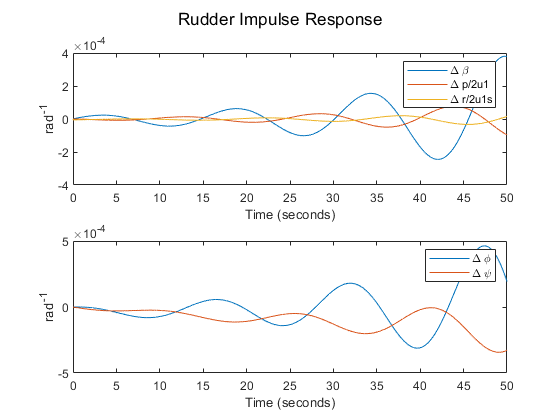
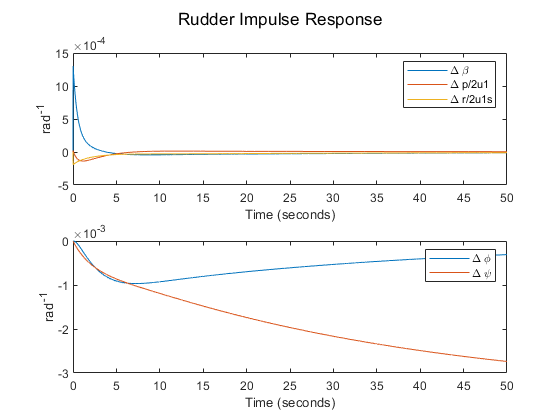
HW 7 2nd draft

diff --git a/ASE 367K/html/hw7.html b/ASE 367K/html/hw7.html
@@ -68,17 +68,18 @@ table td { padding:7px 5px; text-align:left; vertical-align:top; border:1px soli
 
 
   </style></head><body><div class="content"><h2>Contents</h2><div><ul><li><a href="#2">Dimensional stability Derivatives</a></li><li><a href="#3">Set up state space equation</a></li><li><a href="#4">Problem 1 a)</a></li><li><a href="#5">Problem 1 b)</a></li><li><a href="#6">Dutch Roll Approximation</a></li><li><a href="#7">Problem 2a)</a></li><li><a href="#8">Problem 2b)</a></li></ul></div><pre class="codeinput">clear <span class="string">all</span>; close <span class="string">all</span>; clc;
-m= 636636;
-Ixx = 1.82*10^7*32.1740486;
-Izz = 4.97*10^7*32.1740486;
-Ixz = 9.70*10^5*32.1740486;
-S = 5500;
-b = 195.7;
-u1 = 202.537183; <span class="comment">%ft/s</span>
-theta = 2.4/180*pi;
-rho = 1.2673*10^-3*32.1740486;
+
+Ixx = 1.82*10^7*32.1740486; <span class="comment">%lb-ft^2</span>
+Izz = 4.97*10^7*32.1740486; <span class="comment">%lb-ft^2</span>
+Ixz = 9.70*10^5*32.1740486; <span class="comment">%lb-ft^2</span>
+S = 5500; <span class="comment">%ft^2</span>
+b = 195.7; <span class="comment">%ft</span>
+u1 = 202.537183; <span class="comment">%ft/s Mach 0.25 at Sea Level</span>
+theta = 2.4/180*pi; <span class="comment">% rad Arbitrary</span>
+rho = 0.0765; <span class="comment">% lb/ft^3</span>
 q = 1/2*rho*u1^2;
-g = 32.17405;
+g = 32.17405; <span class="comment">% ft/s^2</span>
+m= 636636/g; <span class="comment">% lb</span>
 </pre><h2 id="2">Dimensional stability Derivatives</h2><pre class="codeinput">Cyb=-0.96;
 Clb=-0.221;
 Cnb=0.15;
@@ -184,21 +185,21 @@ fprintf(<span class="string">"Time to damp to half the initial amplitude: %f\n"<
 fprintf(<span class="string">"The number of cycles to damp to half the initial amplitude: %f\n"</span>,NSpiral)
 </pre><pre class="codeoutput">Roll-----------------------------------------------------------
 Damped Frequency: 0.000000
-Natural Frequency: 0.530864
+Natural Frequency: 2.042550
 Damping ratio: 1.000000
-Time to damp to half the initial amplitude: 1.305698
+Time to damp to half the initial amplitude: 0.339354
 The number of cycles to damp to half the initial amplitude: 0.000000
 Dutch Roll-----------------------------------------------------
-Damped Frequency: 0.406406
-Natural Frequency: 0.410465
-Damping ratio: 0.140276
-Time to damp to half the initial amplitude: 12.038320
-The number of cycles to damp to half the initial amplitude: 0.778657
+Damped Frequency: 0.216687
+Natural Frequency: 0.445681
+Damping ratio: 0.873852
+Time to damp to half the initial amplitude: 1.779769
+The number of cycles to damp to half the initial amplitude: 0.061379
 Sprial --------------------------------------------------------
 Damped Frequency: 0.000000
-Natural Frequency: 0.035054
+Natural Frequency: 0.027202
 Damping ratio: 1.000000
-Time to damp to half the initial amplitude: 19.773868
+Time to damp to half the initial amplitude: 25.481548
 The number of cycles to damp to half the initial amplitude: 0.000000
 </pre><h2 id="5">Problem 1 b)</h2><pre class="codeinput">sys = ss(A,B,C,D);
 
@@ -207,7 +208,7 @@ t = 0:0.01:50;
 figure,
 impRud(2,:) = zeros(length(t),1);
 impRud(1,:) = zeros(length(t),1);
-impRud(2,1) = 1/180*pi; <span class="comment">% rad</span>
+impRud(2,1) = 20/180*pi; <span class="comment">% rad</span>
 impRudResponse = lsim(sys,impRud,t);
 impRudResponse(:,2) = impRudResponse(:,2)*b/(2*u1);
 impRudResponse(:,3) = impRudResponse(:,3)*b/(2*u1);
@@ -301,11 +302,11 @@ fprintf(<span class="string">"Damping ratio: %f\n"</span>, damp2)
 fprintf(<span class="string">"Time to damp to half the initial amplitude: %f\n"</span>, delT2)
 fprintf(<span class="string">"The number of cycles to damp to half the initial amplitude: %f\n"</span>,N2)
 </pre><pre class="codeoutput">Dutch Roll Approximation --------------------------------------
-Damped Frequency: 0.289620
-Natural Frequency: 0.295354
-Damping ratio: 0.196095
-Time to damp to half the initial amplitude: 11.967860
-The number of cycles to damp to half the initial amplitude: 0.551651
+Damped Frequency: 0.000000
+Natural Frequency: 0.689106
+Damping ratio: 1.610991
+Time to damp to half the initial amplitude: 0.349983
+The number of cycles to damp to half the initial amplitude: 0.000000
 </pre><h2 id="8">Problem 2b)</h2><pre class="codeinput">sys2 = ss(A2,B2,C2,D2);
 
 t2 = 0:0.01:100;
@@ -337,21 +338,21 @@ plot(t2,stepResponse(:,2))
 ylabel(<span class="string">'\Delta r (rad^{-1})'</span>)
 xlabel(<span class="string">'Time (seconds)'</span>)
 sgtitle(<span class="string">'Dutch Roll Approximation Step Response'</span>)
-</pre><img vspace="5" hspace="5" src="hw7_05.png" alt=""> <img vspace="5" hspace="5" src="hw7_06.png" alt=""> <p class="footer"><br><a href="https://www.mathworks.com/products/matlab/">Published with MATLAB&reg; R2023a</a><br></p></div><!--
+</pre><img vspace="5" hspace="5" src="hw7_05.png" alt=""> <img vspace="5" hspace="5" src="hw7_06.png" alt=""> <img vspace="5" hspace="5" src="hw7_07.png" alt=""> <p class="footer"><br><a href="https://www.mathworks.com/products/matlab/">Published with MATLAB&reg; R2023a</a><br></p></div><!--
 ##### SOURCE BEGIN #####
 clear all; close all; clc;
-m= 636636;
-Ixx = 1.82*10^7*32.1740486;
-Izz = 4.97*10^7*32.1740486;
-Ixz = 9.70*10^5*32.1740486;
-S = 5500;
-b = 195.7;
-u1 = 202.537183; %ft/s
-theta = 2.4/180*pi;
-rho = 1.2673*10^-3*32.1740486;
-q = 1/2*rho*u1^2;
-g = 32.17405;
 
+Ixx = 1.82*10^7*32.1740486; %lb-ft^2
+Izz = 4.97*10^7*32.1740486; %lb-ft^2
+Ixz = 9.70*10^5*32.1740486; %lb-ft^2
+S = 5500; %ft^2
+b = 195.7; %ft
+u1 = 202.537183; %ft/s Mach 0.25 at Sea Level
+theta = 2.4/180*pi; % rad Arbitrary
+rho = 0.0765; % lb/ft^3
+q = 1/2*rho*u1^2;
+g = 32.17405; % ft/s^2
+m= 636636/g; % lb
 
 %% Dimensional stability Derivatives
 Cyb=-0.96;
@@ -471,7 +472,7 @@ t = 0:0.01:50;
 figure,
 impRud(2,:) = zeros(length(t),1);
 impRud(1,:) = zeros(length(t),1);
-impRud(2,1) = 1/180*pi; % rad
+impRud(2,1) = 20/180*pi; % rad
 impRudResponse = lsim(sys,impRud,t);
 impRudResponse(:,2) = impRudResponse(:,2)*b/(2*u1);
 impRudResponse(:,3) = impRudResponse(:,3)*b/(2*u1);

diff --git a/ASE 367K/hw7.m b/ASE 367K/hw7.m
@@ -1,16 +1,16 @@
 clear all; close all; clc;
-m= 636636;
-Ixx = 1.82*10^7*32.1740486;
-Izz = 4.97*10^7*32.1740486;
-Ixz = 9.70*10^5*32.1740486;
-S = 5500;
-b = 195.7;
-u1 = 202.537183; %ft/s
-theta = 2.4/180*pi;
-rho = 1.2673*10^-3*32.1740486;
-q = 1/2*rho*u1^2;
-g = 32.17405;
 
+Ixx = 1.82*10^7; %slugs-ft^2
+Izz = 4.97*10^7; %slugs-ft^2
+Ixz = 9.70*10^5; %slugs-ft^2
+S = 5500; %ft^2
+b = 195.7; %ft
+u1 = 275; %ft/s Mach 0.25 at Sea Level
+theta = 2.4/180*pi; % rad Arbitrary
+rho = 0.002378; % slugs/ft^3
+q = 1/2*rho*u1^2;
+g = 32.17405; % ft/s^2
+m= 636636/g; % lb
 
 %% Dimensional stability Derivatives
 Cyb=-0.96;
@@ -130,7 +130,7 @@ t = 0:0.01:50;
 figure,
 impRud(2,:) = zeros(length(t),1);
 impRud(1,:) = zeros(length(t),1);
-impRud(2,1) = 1/180*pi; % rad
+impRud(2,1) = 20/180*pi; % rad
 impRudResponse = lsim(sys,impRud,t);
 impRudResponse(:,2) = impRudResponse(:,2)*b/(2*u1);
 impRudResponse(:,3) = impRudResponse(:,3)*b/(2*u1);

diff --git a/ASE 367K/test.m b/ASE 367K/test.m
@@ -5,7 +5,7 @@ Izz = 4.97*10^7*32.1740486;
 Ixz = 9.70*10^5*32.1740486;
 S = 5500;
 b = 195.7;
-u1 = 250;
+u1 = 673.436;
 theta = 2.4/180*pi;
 rho = 1.2673*10^-3*32.1740486;
 q = 1/2*rho*u1^2;
@@ -84,7 +84,7 @@ D = zeros(5,2);
 
 sys = ss(A,B,C,D);
 
-t = 0:0.01:50;
+t = 0:0.01:400;
 
 figure,
 impRud(2,:) = zeros(length(t),1);
